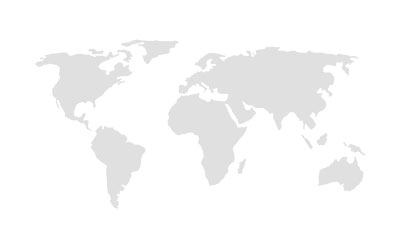
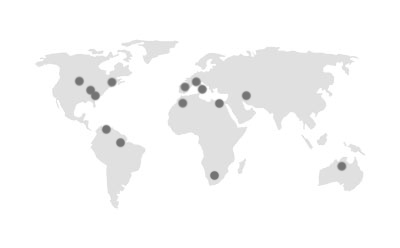
Map progress

diff --git a/wp-content/themes/hhc/js/zoomed-map.js b/wp-content/themes/hhc/js/zoomed-map.js
@@ -1,0 +1,119 @@
+(function ($) {
+	
+jQuery(document).ready(function() {
+
+	// iPad detection
+	var is_iPad = navigator.userAgent.match(/iPad/i) != null;
+
+	// zoom level
+	var zoom_level = 10;
+	if (is_iPad) zoom_level = 1;
+
+	// init
+	if ($('.zoomed-map').length > 0) google.maps.event.addDomListener(window, 'load', initMap);
+	var map;
+	var infoWindow;
+	var activeInfoWindow;
+
+	function initMap() {
+
+		// create map
+		var mapCenter = {lat: 51.135001, lng: -1.937321};
+		map = new google.maps.Map(document.getElementById('zoomed_map'), {
+			zoom: zoom_level,
+			center: mapCenter,
+    		//styles: map_style,
+    		scrollwheel: false
+		});
+
+		addOffice();
+	}
+
+
+	// add POIs to map
+	function addOffice() {
+
+		var marker;
+
+		// popup
+        var contentString = '<div id="#infoWindow" class="info-window">'+
+					            '<h2>Hope & Homes for Children</h2>'+
+					            '<div class="info-window-content">'+
+						            '<p>East Clyffe,<br>Salisbury,<br>Wiltshire SP3 4LZ</p>'+
+					            '</div>'+
+				            '</div>';
+        infoWindow = new google.maps.InfoWindow({
+        	content: contentString
+        });
+
+        // get marker colour
+		var marker_image = stylesheet_dir + '/img/dot-purple.png';
+
+		// create marker
+		var point = new google.maps.LatLng(51.135001, -1.937321);
+		marker = new google.maps.Marker({
+			position: point,
+			map: map,
+			icon: marker_image,
+			infoWindow: infoWindow // slightly non-standard, adding the infoWindow to the marker object
+		});
+
+		// add listener
+	    addListener(marker);
+
+	    // open the info window by default
+		infoWindow.open(map,marker);
+	}
+
+
+	// add marker listener
+	function addListener(marker) {
+		google.maps.event.addListener(marker, 'click', function() {
+
+			if (activeInfoWindow) activeInfoWindow.close();
+			marker.infoWindow.open(marker.get('map'), marker);
+			activeInfoWindow = marker.infoWindow;
+		});
+	}
+	
+
+	// map resize function
+	function sizeMap() {
+		console.log("resizing");
+		var mapContainer = $('#zoomed_map').closest('.container');
+		var containerHeight = mapContainer.height();
+
+		var mapParent = $('#zoomed_map').closest('.fix-12-12');
+		var parentWidth = mapParent.width();
+		if (parentWidth > 1114) parentWidth = 1114;
+
+		var w = parentWidth;
+		var h = Math.floor(w*0.75);
+
+		console.log(w + " x " + h);
+		//$('.map').width(w);
+		//$('.map').css('width', '100%');
+		$('#zoomed_map').height(h);
+	}
+
+
+	// window resize events
+	function mapResizeActions() {
+		sizeMap();
+	};
+	var resizeTimer;
+	$(window).resize(function() {
+	    clearTimeout(resizeTimer);
+	    resizeTimer = setTimeout(mapResizeActions, 100);
+	});
+	if ($('.zoomed-map').length > 0) {
+		mapResizeActions();
+	}
+
+
+
+
+
+});
+
+}(jQuery));

diff --git a/wp-content/themes/hhc/css/acf.css b/wp-content/themes/hhc/css/acf.css
@@ -12,6 +12,7 @@
 #acf-slide_type ul.acf-radio-list.horizontal li:nth-of-type(5) { background-image: url(../img/three-thumbnails.jpg); }
 #acf-slide_type ul.acf-radio-list.horizontal li:nth-of-type(6) { background-image: url(../img/map.jpg); }
 #acf-slide_type ul.acf-radio-list.horizontal li:nth-of-type(7) { background-image: url(../img/latest-tweets.jpg); }
+#acf-slide_type ul.acf-radio-list.horizontal li:nth-of-type(8) { background-image: url(../img/zoomed-map.jpg); }
 
 
 

diff --git a/wp-content/themes/hhc/css/main.css b/wp-content/themes/hhc/css/main.css
@@ -144,6 +144,7 @@ html:not(.mobile) .slide.video .background[style] { background-size: cover !impo
 
 /* map */
 #map > div { background-color: #ffffff !important; }
+#zoomed_map > div { background-color: #ffffff !important; }
 .info-window { text-align: left; }
 .info-window h2 { margin: 20px 0; color: #57244b; font-size: 22px; font-weight: 500; text-transform: uppercase; }
 .info-window p { max-width: 300px; font-size: 16px; line-height: 22px; margin-bottom: 20px; }

diff --git a/wp-content/themes/hhc/includes/slide.php b/wp-content/themes/hhc/includes/slide.php
@@ -399,6 +399,24 @@ if ($video_url != "") {
 
 
 
+
+
+<?php } else if ($slide_type == "zoomed_map") { ?>
+<div class="fix-10-12 <?php echo $hero_alignment; ?>">
+	<?php echo $title_html; ?>
+	<div class="ae-2"><?php echo $slide_content; ?></div>
+</div>
+<div class="fix-12-12">
+	<div class="zoomed-map" id="zoomed_map"></div>
+</div>
+
+
+
+
+
+
+
+
 <?php } else if ($slide_type == "three_thumbnails") { ?>
 <?php $thumbnails = get_field('thumbnails', $slide_id); ?>
 <div class="fix-10-12 <?php echo $hero_alignment; ?>">

diff --git a/wp-content/themes/hhc/functions.php b/wp-content/themes/hhc/functions.php
@@ -10,6 +10,8 @@ function my_enqueue_scripts() {
 	wp_enqueue_script( 'map-style-js' );
 	wp_register_script( 'map-js', get_stylesheet_directory_uri() . '/js/map.js', array('jquery') );
 	wp_enqueue_script( 'map-js' );	
+	wp_register_script( 'zoomed-map-js', get_stylesheet_directory_uri() . '/js/zoomed-map.js', array('jquery') );
+	wp_enqueue_script( 'zoomed-map-js' );	
 
 	// general scripts
 	wp_register_script( 'slides-plugins', get_stylesheet_directory_uri() . '/js/plugins.js', array('jquery'), '5.5.0', true );
